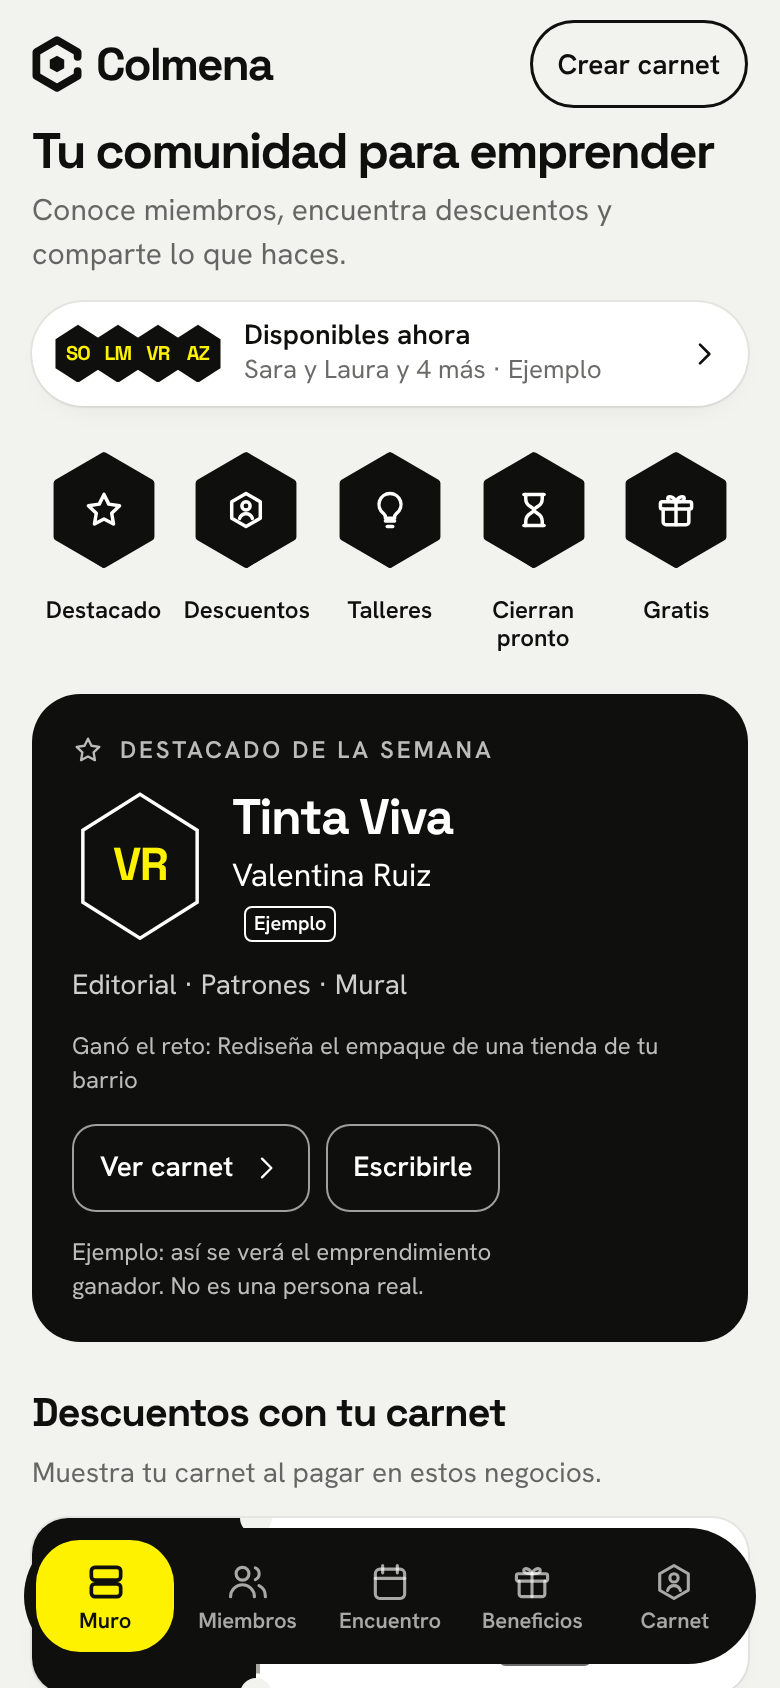
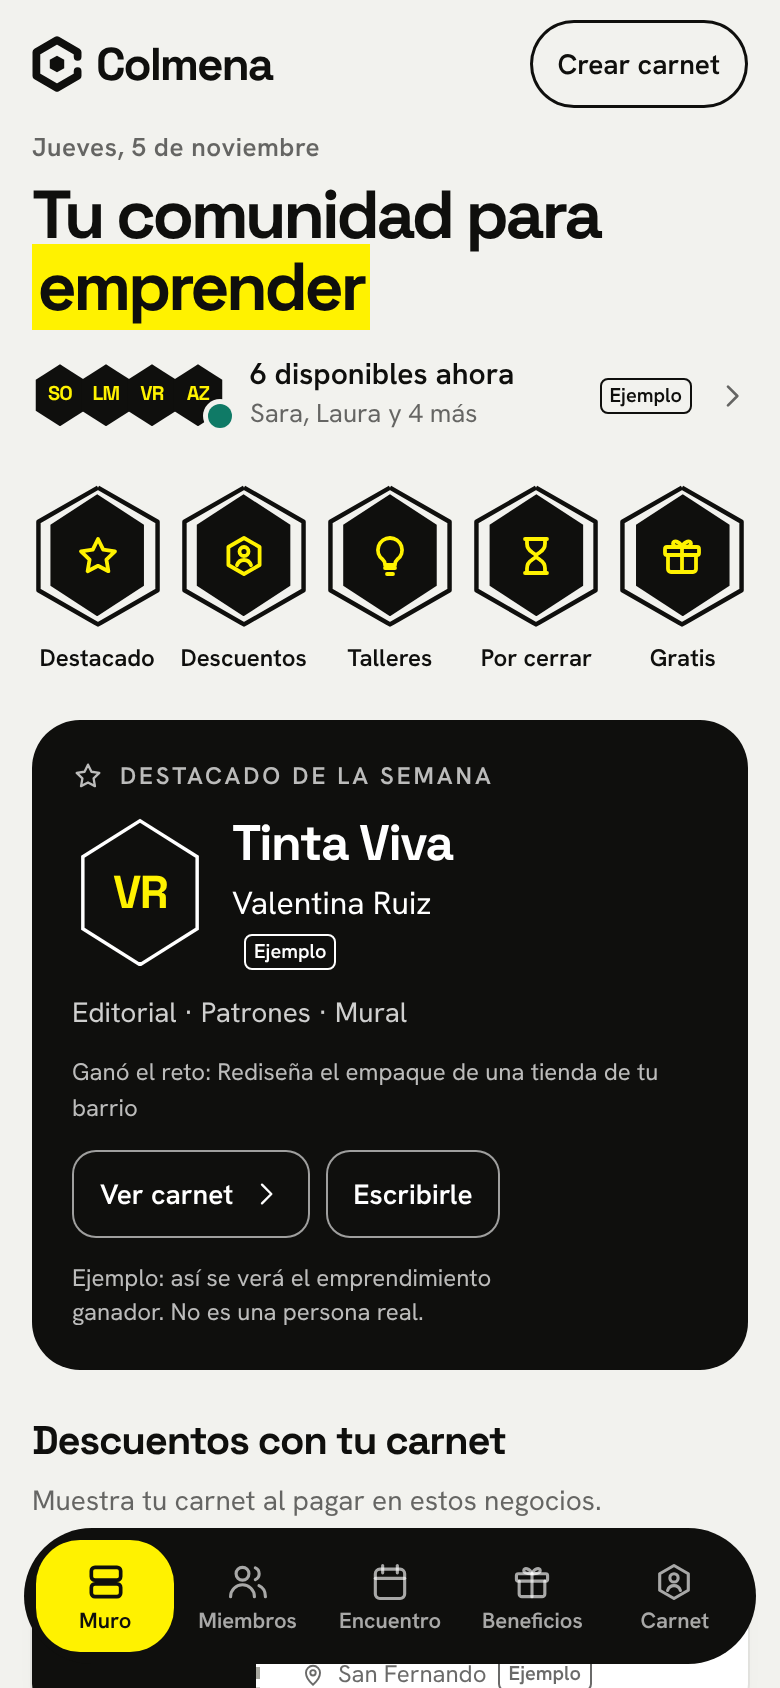
Rediseña el encabezado del inicio y los anillos de destacados
Fecha del día, título grande con resaltado, disponibles en vivo sin tarjeta
y anillos hexagonales Tinta con ícono Polen y aro de novedad.

Claude-Session: https://claude.ai/code/session_01NXLpfMcdTT21CPEoeYscCh

diff --git a/src/styles/app.css b/src/styles/app.css
@@ -1385,9 +1385,6 @@ button.chip, .bchips button, .m-cats button, .tabs-t button { min-width: 44px; }
 }
 
 /* Inicio: premio, aliados y una sola vitrina de novedades antes del muro. */
-.home-saludo { display: flex; flex-direction: column; gap: 4px; }
-.home-saludo h1 { font-size: 22px; line-height: 1.15; }
-.home-saludo p { font-size: 14px; color: var(--muted); }
 .home-premio { display: flex; flex-direction: column; align-items: flex-start; gap: 12px; padding: 20px; border-radius: 24px; background: var(--ink); color: var(--surface); }
 .home-premio > .k, .home-mini > .k { display: flex; align-items: center; gap: 8px; }
 .home-premio > .k { color: rgba(255,255,255,.72); }
@@ -1419,32 +1416,40 @@ button.chip, .bchips button, .m-cats button, .tabs-t button { min-width: 44px; }
 .muro-body { overflow-anchor: none; }
 
 /* ================= Inicio atrapante: encabezado, destacados, cupones y visor ================= */
-.home-saludo { gap: 6px; }
-.home-saludo h1 { font-size: 25px; line-height: 1.08; letter-spacing: -.04em; }
-.home-saludo > p { font-size: 15px; }
-.home-disp { margin-top: 6px; display: flex; align-items: center; gap: 10px; min-height: 52px; padding: 8px 14px 8px 10px; border-radius: 999px; background: var(--surface); box-shadow: var(--soft); text-align: left; transition: transform .15s var(--ease); }
-.home-disp:active { transform: scale(.985); }
-.home-disp .stack { display: flex; flex: none; }
-.home-disp .stack .hexav { box-shadow: 0 0 0 2px var(--surface); }
-.home-disp-t { flex: 1; min-width: 0; display: flex; flex-direction: column; gap: 1px; }
-.home-disp-t b { font: 600 14px/1.2 var(--ui); }
-.home-disp-t span { font-size: 13px; color: var(--muted); white-space: nowrap; overflow: hidden; text-overflow: ellipsis; }
 
-/* Fila de destacados: anillos hexagonales. Sin Polen: el foco de la pantalla es publicar. */
-.dest-fila { display: flex; gap: 0; overflow-x: auto; margin: 0 -16px; padding: 2px 16px 0; scrollbar-width: none; scroll-padding-inline: 16px; }
+/* Encabezado "Hoy": fecha, título grande y quién está disponible */
+.hoy { display: flex; flex-direction: column; gap: 8px; padding-top: 4px; }
+.hoy-fecha { font: 600 13px/1.2 var(--ui); letter-spacing: .02em; color: var(--muted); }
+.hoy h1 { font-size: 34px; line-height: 1.06; letter-spacing: -.05em; }
+.hoy h1 mark.hl { padding: 0 .08em; }
+.hoy-disp { display: flex; align-items: center; gap: 12px; min-height: 48px; margin-top: 4px; text-align: left; border-radius: 14px; transition: transform .15s var(--ease); }
+.hoy-disp:active { transform: scale(.985); }
+.hoy-stack { position: relative; display: flex; flex: none; }
+.hoy-stack .hexav { box-shadow: none; }
+.hoy-stack .hexav + .hexav { margin-left: -5px; }
+.hoy-vivo { position: absolute; right: -3px; bottom: -1px; width: 12px; height: 12px; border-radius: 50%; background: var(--green); box-shadow: 0 0 0 2.5px var(--app-bg); }
+.hoy-disp-t { flex: 1; min-width: 0; display: flex; flex-direction: column; gap: 2px; }
+.hoy-disp-t b { font: 600 15px/1.2 var(--ui); }
+.hoy-disp-t span { font-size: 13px; color: var(--muted); white-space: nowrap; overflow: hidden; text-overflow: ellipsis; }
+.hoy-disp .ejemplo { margin: 0; flex: none; }
+.hoy-disp > svg { flex: none; color: var(--muted); }
+
+/* Fila de destacados: hexágonos Tinta con ícono Polen (como los avatares); el aro marca lo nuevo */
+.dest-fila { display: flex; justify-content: space-between; gap: 0; overflow-x: auto; margin: 8px -16px 4px; padding: 4px 12px 0; scrollbar-width: none; scroll-padding-inline: 12px; }
 .dest-fila::-webkit-scrollbar { display: none; }
-.dest-item { flex: 1 0 68px; max-width: 84px; min-height: 96px; display: flex; flex-direction: column; align-items: center; gap: 6px; padding: 4px 0; animation: a-up .2s var(--ease) both; animation-delay: calc(var(--i, 0) * 40ms); }
+.dest-item { flex: 1 0 70px; max-width: 88px; display: flex; flex-direction: column; align-items: center; gap: 8px; padding: 0 0 4px; animation: a-up .22s var(--ease) both; animation-delay: calc(var(--i, 0) * 45ms); }
 .dest-item:nth-child(2) { --i: 1; } .dest-item:nth-child(3) { --i: 2; } .dest-item:nth-child(4) { --i: 3; } .dest-item:nth-child(5) { --i: 4; } .dest-item:nth-child(6) { --i: 5; }
-.dest-hex { position: relative; width: 68px; height: 76px; display: grid; place-items: center; }
-.dest-hex > svg { position: absolute; inset: 0; width: 100%; height: 100%; }
-.dest-aro { fill: none; stroke: var(--ink); stroke-width: 1.4; stroke-linejoin: round; transition: stroke .2s var(--ease); }
-.dest-hex i { width: 52px; height: 58px; clip-path: var(--hex); background: var(--ink); color: var(--surface); display: grid; place-items: center; transition: background .2s var(--ease), color .2s var(--ease); }
-.dest-item.visto .dest-aro { stroke: var(--ink-4); stroke-width: 1; }
-.dest-item.visto .dest-hex i { background: var(--surface); color: var(--ink); box-shadow: none; }
-.dest-item:active .dest-hex { transform: scale(.94); }
-.dest-hex { transition: transform .15s var(--ease); }
-.dest-n { font: 600 12px/1.15 var(--ui); text-align: center; max-width: 76px; }
-.dest-item.visto .dest-n { color: var(--muted); font-weight: 400; }
+.dest-hex { position: relative; width: 64px; height: 72px; display: grid; place-items: center; transition: transform .15s var(--ease); }
+.dest-hex > svg { position: absolute; inset: 0; width: 100%; height: 100%; overflow: visible; }
+.dest-aro { fill: none; stroke: var(--ink); stroke-width: 2.5; stroke-linejoin: round; stroke-dasharray: 100 100; animation: aro-dibuja .5s var(--ease) both; animation-delay: calc(var(--i, 0) * 45ms + 120ms); }
+@keyframes aro-dibuja { from { stroke-dashoffset: 100; } to { stroke-dashoffset: 0; } }
+.dest-hex i { width: 54px; height: 61px; clip-path: var(--hex); background: var(--ink); color: var(--polen); display: grid; place-items: center; }
+.dest-item.visto .dest-aro { stroke: var(--ink-4); stroke-width: 1.5; animation: none; }
+.dest-item.visto .dest-hex i { opacity: .88; }
+.dest-item:active .dest-hex { transform: scale(.93); }
+.dest-n { font: 600 12px/1.2 var(--ui); text-align: center; max-width: 80px; }
+.dest-item.visto .dest-n { color: var(--muted); }
+@media (prefers-reduced-motion: reduce) { .dest-aro { animation: none; } }
 
 /* Premio: pasos en una línea y cuenta regresiva */
 .home-premio.con-ganador .home-avatar { animation: a-pop .24s var(--ease) both; }

diff --git a/src/components/Inicio.jsx b/src/components/Inicio.jsx
@@ -10,6 +10,7 @@ import { FilaDestacados, VisorDestacados } from './Historias'
 import { Aliados, Logo, rango } from '../screens/Beneficios'
 import { vigentes } from '../screens/Convocatorias'
 
+const fechaHoy = (t) => { const x = new Date(t).toLocaleDateString('es-CO', { weekday: 'long', day: 'numeric', month: 'long', timeZone: 'America/Bogota' }); return x.charAt(0).toUpperCase() + x.slice(1) }
 const unir = (n) => (n.length <= 1 ? n[0] || '' : `${n.slice(0, -1).join(', ')} y ${n[n.length - 1]}`)
 
 // Datos que usan el encabezado, los destacados y las vitrinas; si una fuente falla, esa parte no se pinta.
@@ -28,8 +29,9 @@ export function Inicio({ nav, irTab, pedirPerfil }) {
   const [vistos, setVistos] = useState(leerVistos)
   const [visor, setVisor] = useState(null)
   const participar = () => irTab('encuentro', 'enc-reto')
-  const disponibles = c.perfiles.filter((p) => p.disponible).slice(0, 4)
-  const nDisp = c.perfiles.filter((p) => p.disponible).length
+  const otrosDisp = c.perfiles.filter((p) => p.disponible && p.id !== c.yo?.id)
+  const disponibles = otrosDisp.slice(0, 4)
+  const nDisp = otrosDisp.length
 
   const anillos = useMemo(() => construirDestacados({
     ahora, ganador, perfilGanador: perfil, reto: c.reto,
@@ -60,17 +62,18 @@ export function Inicio({ nav, irTab, pedirPerfil }) {
 
   return (
     <>
-      <div className="home-saludo">
-        <h1>{c.yo ? `Hola, ${c.yo.nombre.split(' ')[0]}` : 'Tu comunidad para emprender'}</h1>
-        <p>{c.yo ? 'Esto es lo nuevo en la comunidad.' : 'Conoce miembros, encuentra descuentos y comparte lo que haces.'}</p>
+      <header className="hoy">
+        <span className="hoy-fecha">{fechaHoy(ahora)}</span>
+        <h1>{c.yo ? <>Hola, {c.yo.nombre.split(' ')[0]}</> : <>Tu comunidad para <mark className="hl">emprender</mark></>}</h1>
         {disponibles.length > 0 && (
-          <button type="button" className="home-disp" onClick={() => irTab('miembros')} aria-label={`${nDisp} miembros disponibles ahora. Ver miembros`}>
-            <span className="stack">{disponibles.map((p) => <Hex key={p.id} p={p} w={26} fs={10} />)}</span>
-            <span className="home-disp-t"><b>Disponibles ahora</b><span>{unir(disponibles.slice(0, 2).map((p) => p.nombre.split(' ')[0]))}{nDisp > 2 ? ` y ${nDisp - 2} más` : ''}{disponibles.every((p) => p.es_ejemplo) ? ' · Ejemplo' : ''}</span></span>
+          <button type="button" className="hoy-disp" onClick={() => irTab('miembros')} aria-label={`${nDisp} miembros disponibles ahora. Ver miembros`}>
+            <span className="hoy-stack">{disponibles.map((p) => <Hex key={p.id} p={p} w={28} fs={10} />)}<i className="hoy-vivo" aria-hidden="true" /></span>
+            <span className="hoy-disp-t"><b>{nDisp} disponibles ahora</b><span>{nDisp > 2 ? `${disponibles.slice(0, 2).map((p) => p.nombre.split(' ')[0]).join(', ')} y ${nDisp - 2} más` : unir(disponibles.map((p) => p.nombre.split(' ')[0]))}</span></span>
+            {disponibles.every((p) => p.es_ejemplo) && <span className="ejemplo">Ejemplo</span>}
             <Icon n="right" s={16} w={2} />
           </button>
         )}
-      </div>
+      </header>
 
       <FilaDestacados anillos={anillos} vistos={vistos} onAbrir={setVisor} />
       {visor !== null && <VisorDestacados anillos={anillos} inicial={visor} onCerrar={cerrarVisor} onIr={ir} />}

diff --git a/src/components/Historias.jsx b/src/components/Historias.jsx
@@ -5,7 +5,7 @@ import { estaVisto, leerVistos, marcarVisto } from '../lib/historias'
 
 const quietoAhora = () => { try { return window.matchMedia('(prefers-reduced-motion: reduce)').matches } catch { return false } }
 const DURACION = { ganador: 7000, reto: 7000, aliado: 6000, taller: 7000, conv: 6000, beneficio: 5000 }
-const HEX = 'M12 2.5 20.2 7.25v9.5L12 21.5 3.8 16.75v-9.5L12 2.5Z'
+const ARO = '36,1.5 69.5,20.75 69.5,59.25 36,78.5 2.5,59.25 2.5,20.75'
 
 // Fila de anillos hexagonales. Sin datos no pinta nada: nunca estorba al resto del inicio.
 export function FilaDestacados({ anillos, onAbrir, vistos }) {
@@ -18,8 +18,8 @@ export function FilaDestacados({ anillos, onAbrir, vistos }) {
           <button key={a.id} type="button" className={'dest-item' + (visto ? ' visto' : '')} onClick={() => onAbrir(i)}
             aria-label={`${a.nombre}${visto ? '' : ', nuevo'}`}>
             <span className="dest-hex">
-              <svg viewBox="0 0 24 24" aria-hidden="true"><path d={HEX} className="dest-aro" /></svg>
-              <i><Icon n={a.icono} s={22} w={1.9} /></i>
+              <svg viewBox="0 0 72 80" aria-hidden="true"><polygon points={ARO} className="dest-aro" pathLength="100" /></svg>
+              <i><Icon n={a.icono} s={24} w={1.9} /></i>
             </span>
             <span className="dest-n">{a.nombre}</span>
           </button>

diff --git a/src/lib/historias.js b/src/lib/historias.js
@@ -65,7 +65,7 @@ export function construirDestacados({ ahora = Date.now(), ganador = null, perfil
     .sort((a, b) => hasta(a) - hasta(b)).slice(0, 4)
   if (conv.length) {
     anillos.push({
-      id: 'cierran', nombre: 'Cierran pronto', icono: 'hour',
+      id: 'cierran', nombre: 'Por cerrar', icono: 'hour',
       slides: conv.map((x) => ({
         id: `conv-${x.id}`, k: 'conv', oscura: true,
         kicker: x.tipo === 'feria' ? 'Feria' : x.tipo === 'evento' ? 'Evento' : 'Convocatoria', titulo: x.nombre,

diff --git a/docs/home-destacados/README.md b/docs/home-destacados/README.md
@@ -60,11 +60,11 @@ Misma rama y mismo PR. Comentarios de Jhon sobre la versión anterior: la franja
 1. **Sin "DCV" en la interfaz.** Bienvenida ("Colmena conecta a estudiantes que emprenden."), estado del carnet ("Activa") y textos de compartir ("la red de estudiantes que emprenden", en Registro y MiCarnet). `grep -rn DCV src` queda vacío y se revisaron `retos`, `encuentros`, `talleres`, `convocatorias` y `beneficios` en la base: ninguna fila lo contiene. No se tocó `docs/marca/` (el spec todavía dice "Activa · DCV": ver decisiones de Jhon). El dominio `colmena-dcv.netlify.app` sigue igual: es una URL, no un texto de la interfaz.
 2. **Perfil de prueba "jhon" eliminado** con migración de solo datos (`supabase/migraciones/20261104_borrar_perfil_prueba_jhon.sql`), solo por su id y con `not es_ejemplo`. Antes: 9 perfiles (1 real), 10+1 publicaciones; el objetivo tenía 1 publicación, 0 ayudas, 0 retos, 0 cuentas. Resultado: 1 publicación y 1 perfil borrados. Después: 8 perfiles (0 reales), 10 publicaciones (0 reales), 6 disponibles ahora. Revisión de estados: inicio, "Disponibles ahora", Miembros, destacado y bienvenida cargan sin vacíos ni errores (capturas más abajo y 17 comprobaciones de home).
 3. **Descuentos de aliados como cupones.** Cada uno es un cupón horizontal: bloque Tinta con el valor en grande (−15 %, −10 %, POR MAYOR), perforación con muescas y cuerpo Blanco con nombre, condición, zona y la etiqueta Ejemplo. Al tocar un cupón se abre su detalle con "Mostrar mi carnet", que abre la pantalla `mostrar` que ya existía (si no hay carnet, primero ofrece crearlo). El carnet mini amarillo que se probó debajo de los cupones se retiró por pedido de Jhon. Al final, una invitación con borde punteado, "¿Tienes un negocio?", que abre el formulario de propuesta ya existente (`proponer_beneficio`). Se apilan en vertical, así que no hay tarjetas cortadas ni huecos; el inicio muestra 3 y "Ver todos" lleva a Beneficios. No hay logos ni imágenes inventadas: el valor hace de imagen.
-4. **Destacados tipo historias.** Fila de anillos hexagonales justo bajo el encabezado, con íconos del kit propio: Destacado/Reto, Descuentos, Talleres, Cierran pronto (convocatorias con cierre en 21 días o menos) y Gratis (beneficios más útiles, en el mismo orden que Beneficios). Cada uno abre un visor a pantalla completa con las pantallas armadas solo con datos de la base (`src/lib/historias.js`, función pura con 6 pruebas). Una pantalla por descuento, taller, convocatoria y beneficio; el destacado y el reto llevan su pantalla. Todo lo de muestra conserva "Ejemplo". Si un grupo no tiene datos o su lectura falla, su anillo simplemente no aparece: nunca se bloquea nada.
+4. **Destacados tipo historias.** Fila de anillos hexagonales justo bajo el encabezado, con íconos del kit propio: Destacado/Reto, Descuentos, Talleres, Por cerrar (convocatorias con cierre en 21 días o menos) y Gratis (beneficios más útiles, en el mismo orden que Beneficios). Cada uno abre un visor a pantalla completa con las pantallas armadas solo con datos de la base (`src/lib/historias.js`, función pura con 6 pruebas). Una pantalla por descuento, taller, convocatoria y beneficio; el destacado y el reto llevan su pantalla. Todo lo de muestra conserva "Ejemplo". Si un grupo no tiene datos o su lectura falla, su anillo simplemente no aparece: nunca se bloquea nada.
    - Visor (`src/components/Historias.jsx`): `<dialog>` modal (foco dentro y fondo inerte por el navegador), una barra por pantalla, tocar a la derecha adelanta y a la izquierda vuelve, mantener presionado pausa (la barra y el reloj se detienen juntos), deslizar de lado cambia de destacado, deslizar hacia abajo cierra, flechas del teclado y Escape. Con `prefers-reduced-motion` no avanza solo. Al terminar un destacado pasa al siguiente; al terminar el último, cierra. Cada pantalla tiene un solo botón en Polen con la acción (Participar, Ver carnet, Mostrar mi carnet, Ver talleres…).
    - Visto/no visto en `localStorage` (`colmena.destacados.vistos.v1`), con firma del contenido: si cambian las pantallas de un anillo, vuelve a salir como nuevo. Si el almacenamiento falla, todo sigue funcionando.
 5. **Encabezado y tarjeta del destacado más ricos, sin llenarlos.**
-   - Encabezado: título más grande y una línea con "Disponibles ahora" (hexágonos y nombres de miembros con cupo, con la marca Ejemplo mientras todos sean de muestra) que lleva a Miembros. Para miembros, "Hola, Nombre" y "Esto es lo nuevo en la comunidad."
+   - Encabezado (rediseñado tras la tercera revisión de Jhon, estilo pestaña "Hoy" de las tiendas de apps): fecha del día arriba, título de 34 px con "emprender" resaltado en Polen (o "Hola, Nombre" para miembros), fila "N disponibles ahora" sin tarjeta, con hexágonos apilados y un punto Verde de disponible (mismo significado que "Con cupo" en Miembros; no se cuenta a uno mismo), y anillos más grandes: hexágono Tinta con ícono Polen, como los avatares, y un aro Tinta que se dibuja al entrar cuando hay algo nuevo; ya visto, el aro pasa a gris fino. Se quitó la frase de apoyo para que el contenido suba. Antes: título y una pastilla blanca con "Disponibles ahora" (hexágonos y nombres de miembros con cupo, con la marca Ejemplo mientras todos sean de muestra) que lleva a Miembros. Para miembros, "Hola, Nombre" y "Esto es lo nuevo en la comunidad."
    - Tarjeta sin ganador: una frase que explica cómo se gana ("Participa en el reto. La propuesta con más votos Útil se muestra aquí durante 7 días."), el botón Participar y la cuenta regresiva al lado. Con ganador: el avatar entra con un movimiento corto.
    - Corrección tras la revisión de Jhon: se quitaron los pasos abreviados ("Reciben Útil", "7 días arriba"), que no se entendían; la sección de descuentos recuperó su espaciado (una limpieza de CSS había borrado su `display: flex`), lleva una línea de ayuda bajo el título, el carnet mini se retiró y la invitación a negocios es una fila delgada con borde punteado.
    - Ritmo: encabezado → anillos → tarjeta oscura → cupones → publicar → publicaciones, con las vitrinas intercaladas: "Esta semana" después de la tercera publicación y "Ya los tienes por ser estudiante" (3 beneficios con logo) después de la séptima. Solo aparecen con el filtro "Todo" y sin categoría, y si hay pocas publicaciones salen al final. Así el tramo largo de publicaciones se interrumpe con superficies de forma distinta (tarjetas horizontales, lista) y hay razones para seguir bajando.
@@ -87,7 +87,7 @@ AGENTS.md dice que JetBrains Mono es solo para el número de carnet y las cifras
 
 ### Decisiones abiertas de Jhon (nuevas)
 1. Actualizar `docs/marca/colmena-brand-spec.md`: el estado del carnet dice "Activa · DCV" y la app ahora dice "Activa".
-2. Si "Cierran pronto" debe usar 21 días o otra ventana, y si "Gratis" muestra 4 beneficios o más.
+2. Si "Por cerrar" debe usar 21 días o otra ventana, y si "Gratis" muestra 4 beneficios o más.
 3. Si el reloj de "Mostrar mi carnet" sigue en mono (hoy sí).
 
 ## Decisiones abiertas de Jhon

diff --git a/TODO-AGENTES.md b/TODO-AGENTES.md
@@ -11,7 +11,7 @@ Marca con tu nombre lo que tomes. Lo visual es de diseño; lo de datos, de Claud
 - [ ] Jhon: definir contenido del reto 2; no se creó en la base.
 - [x] Claude: quitar "DCV" de la interfaz, borrar el perfil de prueba, cupones de aliados, destacados tipo historias con visor, encabezado y tarjeta más ricos, vitrinas intercaladas y `--mono` corregido.
 - [ ] Jhon: actualizar `docs/marca/colmena-brand-spec.md` ("Activa · DCV" → "Activa").
-- [ ] Jhon: confirmar ventana de "Cierran pronto" (21 días) y si el reloj de "Mostrar mi carnet" sigue en mono.
+- [ ] Jhon: confirmar ventana de "Por cerrar" (21 días) y si el reloj de "Mostrar mi carnet" sigue en mono.
 - [ ] Revisar PR de `diseno/home-destacados` contra main. No fusionar sin indicación.
 
 ## Fiabilidad de los flujos (Codex, autorizada por Jhon)
